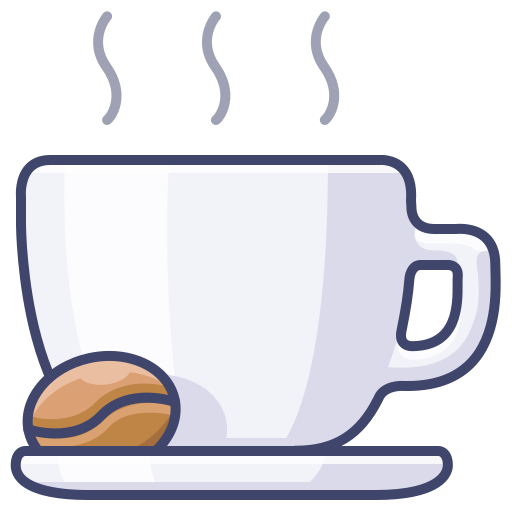
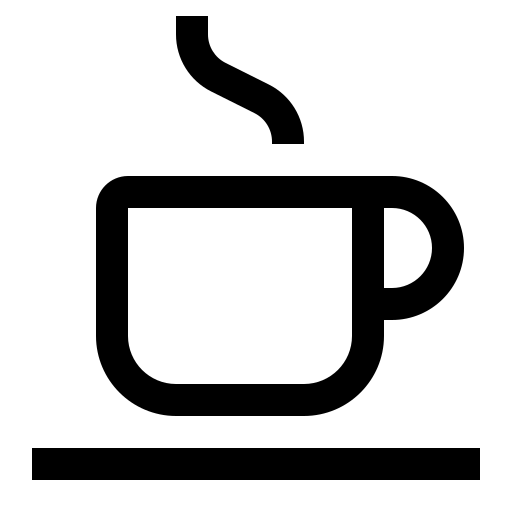
카테고리별 마커 이미지 변경, 카테고리 클릭시 클릭된 이미지 표시되도록 구현

diff --git a/src/main/resources/static/js/category-marker.js b/src/main/resources/static/js/category-marker.js
@@ -6,13 +6,59 @@ var cafe = document.getElementById("cafe").innerText;
 var late_food = document.getElementById("late_food").innerText;
 var etc = document.getElementById("etc").innerText;
 
+var all_img =  document.getElementById("all_img");
+var k_food_img =  document.getElementById("k_food_img");
+var j_food_img =  document.getElementById("j_food_img");
+var c_food_img =  document.getElementById("c_food_img");
+var w_food_img =  document.getElementById("w_food_img");
+var cafe_img =  document.getElementById("cafe_img");
+var late_food_img =  document.getElementById("late_food_img");
+var etc_img =  document.getElementById("etc_img");
+
 function allBtn() {
+    if(all_img.src.match("all")) {
+        all_img.src = "./images/all_red.png"
+    }
+
+    k_food_img.src = "./images/k-food.png"
+    j_food_img.src = "./images/j-food.png"
+    c_food_img.src = "./images/c-food.png"
+    w_food_img.src = "./images/w-food.png"
+    cafe_img.src = "./images/cafe.png"
+    late_food_img.src = "./images/late-food.png"
+    etc_img.src = "./images/etc.png"
+
     for (var i=0; i<boardMarkers.length; i++) {
         boardMarkers[i].setVisible(true);
     }
 }
+//function allBtn() {
+//    var all_img =  document.getElementById("all_img");
+//    if(all_img.src.match("all")) {
+//        all_img.src = "./images/all_red.png"
+//    } else {
+//        all_img.src = "./images/all.png"
+//    }
+//
+//    for (var i=0; i<boardMarkers.length; i++) {
+//        boardMarkers[i].setVisible(true);
+//    }
+//}
+
 
 function k_foodBtn() {
+        if(k_food_img.src.match("k-food")) {
+            k_food_img.src = "./images/k-food_red.png"
+        }
+
+        all_img.src = "./images/all.png"
+        j_food_img.src = "./images/j-food.png"
+        c_food_img.src = "./images/c-food.png"
+        w_food_img.src = "./images/w-food.png"
+        cafe_img.src = "./images/cafe.png"
+        late_food_img.src = "./images/late-food.png"
+        etc_img.src = "./images/etc.png"
+
     for (var i=0; i<boardMarkers.length; i++) {
         boardMarkers[i].setVisible(false);
         if(boardInfo[i].storeType == k_food) {
@@ -22,6 +68,18 @@ function k_foodBtn() {
 }
 
 function j_foodBtn() {
+    if(j_food_img.src.match("j-food")) {
+        j_food_img.src = "./images/j-food_red.png"
+    }
+
+    all_img.src = "./images/all.png"
+    k_food_img.src = "./images/k-food.png"
+    c_food_img.src = "./images/c-food.png"
+    w_food_img.src = "./images/w-food.png"
+    cafe_img.src = "./images/cafe.png"
+    late_food_img.src = "./images/late-food.png"
+    etc_img.src = "./images/etc.png"
+
     for (var i=0; i<boardMarkers.length; i++) {
         boardMarkers[i].setVisible(false);
         if(boardInfo[i].storeType == j_food) {
@@ -31,6 +89,18 @@ function j_foodBtn() {
 }
 
 function c_foodBtn() {
+    if(c_food_img.src.match("c-food")) {
+        c_food_img.src = "./images/c-food_red.png"
+    }
+
+    all_img.src = "./images/all.png"
+    k_food_img.src = "./images/k-food.png"
+    j_food_img.src = "./images/j-food.png"
+    w_food_img.src = "./images/w-food.png"
+    cafe_img.src = "./images/cafe.png"
+    late_food_img.src = "./images/late-food.png"
+    etc_img.src = "./images/etc.png"
+
     for (var i=0; i<boardMarkers.length; i++) {
         boardMarkers[i].setVisible(false);
         if(boardInfo[i].storeType == c_food) {
@@ -40,6 +110,18 @@ function c_foodBtn() {
 }
 
 function w_foodBtn() {
+    if(w_food_img.src.match("w-food")) {
+        w_food_img.src = "./images/w-food_red.png"
+    }
+
+    all_img.src = "./images/all.png"
+    k_food_img.src = "./images/k-food.png"
+    j_food_img.src = "./images/j-food.png"
+    c_food_img.src = "./images/c-food.png"
+    cafe_img.src = "./images/cafe.png"
+    late_food_img.src = "./images/late-food.png"
+    etc_img.src = "./images/etc.png"
+
     for (var i=0; i<boardMarkers.length; i++) {
         boardMarkers[i].setVisible(false);
         if(boardInfo[i].storeType == w_food) {
@@ -49,6 +131,18 @@ function w_foodBtn() {
 }
 
 function cafeBtn() {
+    if(cafe_img.src.match("cafe")) {
+        cafe_img.src = "./images/cafe_red.png"
+    }
+
+    all_img.src = "./images/all.png"
+    k_food_img.src = "./images/k-food.png"
+    j_food_img.src = "./images/j-food.png"
+    c_food_img.src = "./images/c-food.png"
+    w_food_img.src = "./images/w-food.png"
+    late_food_img.src = "./images/late-food.png"
+    etc_img.src = "./images/etc.png"
+
     for (var i=0; i<boardMarkers.length; i++) {
         boardMarkers[i].setVisible(false);
         if(boardInfo[i].storeType == cafe) {
@@ -58,6 +152,18 @@ function cafeBtn() {
 }
 
 function late_foodBtn() {
+    if(late_food_img.src.match("late-food")) {
+        late_food_img.src = "./images/late-food_red.png"
+    }
+
+    all_img.src = "./images/all.png"
+    k_food_img.src = "./images/k-food.png"
+    j_food_img.src = "./images/j-food.png"
+    c_food_img.src = "./images/c-food.png"
+    w_food_img.src = "./images/w-food.png"
+    cafe_img.src = "./images/cafe.png"
+    etc_img.src = "./images/etc.png"
+
     for (var i=0; i<boardMarkers.length; i++) {
         boardMarkers[i].setVisible(false);
         if(boardInfo[i].storeType == late_food) {
@@ -67,6 +173,18 @@ function late_foodBtn() {
 }
 
 function etcBtn() {
+    if(etc_img.src.match("etc")) {
+        etc_img.src = "./images/etc_red.png"
+    }
+
+    all_img.src = "./images/all.png"
+    k_food_img.src = "./images/k-food.png"
+    j_food_img.src = "./images/j-food.png"
+    c_food_img.src = "./images/c-food.png"
+    w_food_img.src = "./images/w-food.png"
+    cafe_img.src = "./images/cafe.png"
+    late_food_img.src = "./images/late-food.png"
+
     for (var i=0; i<boardMarkers.length; i++) {
         boardMarkers[i].setVisible(false);
         if(boardInfo[i].storeType == etc) {

diff --git a/src/main/resources/templates/mainMap/map_wrap.html b/src/main/resources/templates/mainMap/map_wrap.html
@@ -6,14 +6,23 @@
   <div id="map" style="width:100%;height:100%;"></div>
     <!--마커게시판 필터링 바 삽입 공간-->
     <div id="category">
-      <button type="button" id="all" class="all" onclick="allBtn()" data-order="0" height ="40" width="40" th:valeu="전체"><img src="./images/all.png" height ="40" width="40" />전체</button>
-      <button type="button" id="k_food" onclick="k_foodBtn()" class="k_food_btn" data-order="1" th:valeu="한식"><img src="./images/k-food.png" height ="40" width="40"  />한식</button>
-      <button type="button" id="j_food" class="j_food" onclick="j_foodBtn()" data-order="2" th:valeu="일식"><img src="./images/j-food.png" height ="40" width="40" />일식</button>
-      <button type="button" id="c_food"  class="c_food" onclick="c_foodBtn()" data-order="3" th:valeu="중식"><img src="./images/c-food.png" height ="40" width="40" />중식</button>
-      <button type="button" id="w_food"  class="w_food" onclick="w_foodBtn()" data-order="4" th:valeu="양식"><img src="./images/w-food.png" height ="40" width="40"  />양식</button>
-      <button type="button" id="cafe"  class="cafe" data-order="5" onclick="cafeBtn()" th:valeu="카페"><img src="./images/cafe.png" height ="40" width="40" />카페</button>
-      <button type="button" id="late_food"  class="late_food" data-order="6" onclick="late_foodBtn()" th:valeu="야식"><img src="./images/late-food.png" height ="40" width="40"  />야식</button>
-      <button type="button" id="etc"  class="etc" data-order="7" onclick="etcBtn()" th:valeu="기타"><img src="./images/etc.png" height ="40" width="40" />기타</button>
+      <button  id="all" class="all" onclick="allBtn()" ><img id="all_img" src="./images/all.png" height ="40" width="40" />전체</button>
+      <button  id="k_food" onclick="k_foodBtn()" class="k_food_btn" ><img id="k_food_img" src="./images/k-food.png" height ="40" width="40" />한식</button>
+      <button  id="j_food" class="j_food" onclick="j_foodBtn()" ><img id="j_food_img" src="./images/j-food.png" height ="40" width="40" />일식</button>
+      <button  id="c_food"  class="c_food" onclick="c_foodBtn()" ><img id="c_food_img" src="./images/c-food.png" height ="40" width="40" />중식</button>
+      <button  id="w_food"  class="w_food" onclick="w_foodBtn()" ><img id="w_food_img" src="./images/w-food.png" height ="40" width="40"  />양식</button>
+      <button  id="cafe"  class="cafe" onclick="cafeBtn()" ><img id="cafe_img" src="./images/cafe.png" height ="40" width="40" />카페</button>
+      <button  id="late_food" class="late_food" onclick="late_foodBtn()"><img id="late_food_img" src="./images/late-food.png" height ="40" width="40" />야식</button>
+      <button  id="etc"  class="etc" onclick="etcBtn()"><img id="etc_img" src="./images/etc.png" height ="40" width="40" />기타</button>
+
+<!--      <button type="button" id="all" class="all" onclick="allBtn()" data-order="0" height ="40" width="40" th:valeu="전체"><img id="all_Img" src="./images/all.png" height ="40" width="40" />전체</button>-->
+<!--      <button type="button" id="k_food" onclick="k_foodBtn()" class="k_food_btn" data-order="1" th:valeu="한식"><img src="./images/k-food.png" height ="40" width="40"  />한식</button>-->
+<!--      <button type="button" id="j_food" class="j_food" onclick="j_foodBtn()" data-order="2" th:valeu="일식"><img src="./images/j-food.png" height ="40" width="40" />일식</button>-->
+<!--      <button type="button" id="c_food"  class="c_food" onclick="c_foodBtn()" data-order="3" th:valeu="중식"><img src="./images/c-food.png" height ="40" width="40" />중식</button>-->
+<!--      <button type="button" id="w_food"  class="w_food" onclick="w_foodBtn()" data-order="4" th:valeu="양식"><img src="./images/w-food.png" height ="40" width="40"  />양식</button>-->
+<!--      <button type="button" id="cafe"  class="cafe" data-order="5" onclick="cafeBtn()" th:valeu="카페"><img src="./images/cafe.png" height ="40" width="40" />카페</button>-->
+<!--      <button type="button" id="late_food"  class="late_food" data-order="6" onclick="late_foodBtn()" th:valeu="야식"><img src="./images/late-food.png" height ="40" width="40"  />야식</button>-->
+<!--      <button type="button" id="etc"  class="etc" data-order="7" onclick="etcBtn()" th:valeu="기타"><img src="./images/etc.png" height ="40" width="40" />기타</button>-->
     </div>
 
     <button class="gpsButton" id="gpsButtonConnect" onclick="gpsButton()" ><img style="width:40px; height:40px;" src="./images/gpsButton.svg" alt="gps"></button>

diff --git a/src/main/resources/static/js/modal-category.js b/src/main/resources/static/js/modal-category.js
@@ -9,7 +9,7 @@ var boardMarkers = [];
 var arrImages = [];
 
 // 카테고리 마커 이미지의 이미지 크기
-var imageSize2 = new kakao.maps.Size(100, 125);
+var imageSize2 = new kakao.maps.Size(50, 65);
 
 //카테고리 마커 이미지, 사이즈 담는 배열
 var markerImage2=[];
@@ -19,31 +19,31 @@ for (var i=0; i<boardInfo.length; i++) {
 //    console.log(boardInfo[i].storeType)
 
     if ( boardInfo[i].storeType === "한식") {
-        arrImages[i] = "https://github.com/jeonga-Son/image/blob/932d7e7aeb94bf770bff9a334d8eb0d836c84618/images/k-food.png?raw=true"
+        arrImages[i] = "https://raw.githubusercontent.com/jeonga-Son/image/c3208ecdc82cd0e49e3c988b5317af041a0eabaa/images/k-food_marker.png"
         markerImage2[i] = new kakao.maps.MarkerImage(arrImages[i], imageSize2);
     }
     else if ( boardInfo[i].storeType === "일식") {
-        arrImages[i] = "https://raw.githubusercontent.com/jeonga-Son/image/932d7e7aeb94bf770bff9a334d8eb0d836c84618/images/j-food.png"
+        arrImages[i] = "https://raw.githubusercontent.com/jeonga-Son/image/c3208ecdc82cd0e49e3c988b5317af041a0eabaa/images/j-food_marker.png"
         markerImage2[i] = new kakao.maps.MarkerImage(arrImages[i], imageSize2);
     }
     else if ( boardInfo[i].storeType === "중식") {
-        arrImages[i] = "https://raw.githubusercontent.com/jeonga-Son/image/932d7e7aeb94bf770bff9a334d8eb0d836c84618/images/c-food.png"
+        arrImages[i] = "https://raw.githubusercontent.com/jeonga-Son/image/c3208ecdc82cd0e49e3c988b5317af041a0eabaa/images/c-food_marker.png"
         markerImage2[i] = new kakao.maps.MarkerImage(arrImages[i], imageSize2);
     }
     else if ( boardInfo[i].storeType === "양식") {
-        arrImages[i] = "https://raw.githubusercontent.com/jeonga-Son/image/932d7e7aeb94bf770bff9a334d8eb0d836c84618/images/w-food.png"
+        arrImages[i] = "https://raw.githubusercontent.com/jeonga-Son/image/c3208ecdc82cd0e49e3c988b5317af041a0eabaa/images/w-food_marker.png"
         markerImage2[i] = new kakao.maps.MarkerImage(arrImages[i], imageSize2);
     }
     else if ( boardInfo[i].storeType === "카페") {
-        arrImages[i] = "https://raw.githubusercontent.com/jeonga-Son/image/932d7e7aeb94bf770bff9a334d8eb0d836c84618/images/cafe.png"
+        arrImages[i] = "https://raw.githubusercontent.com/jeonga-Son/image/c3208ecdc82cd0e49e3c988b5317af041a0eabaa/images/cafe_marker.png"
         markerImage2[i] = new kakao.maps.MarkerImage(arrImages[i], imageSize2);
     }
     else if ( boardInfo[i].storeType === "야식") {
-        arrImages[i] = "https://raw.githubusercontent.com/jeonga-Son/image/932d7e7aeb94bf770bff9a334d8eb0d836c84618/images/late-food.png"
+        arrImages[i] = "https://raw.githubusercontent.com/jeonga-Son/image/c3208ecdc82cd0e49e3c988b5317af041a0eabaa/images/late-food_marker.png"
         markerImage2[i] = new kakao.maps.MarkerImage(arrImages[i], imageSize2);
     }
     else {
-        arrImages[i] = "https://raw.githubusercontent.com/jeonga-Son/image/932d7e7aeb94bf770bff9a334d8eb0d836c84618/images/etc.png"
+        arrImages[i] = "https://raw.githubusercontent.com/jeonga-Son/image/c3208ecdc82cd0e49e3c988b5317af041a0eabaa/images/etc_marker.png"
         markerImage2[i] = new kakao.maps.MarkerImage(arrImages[i], imageSize2);
     }
 }
